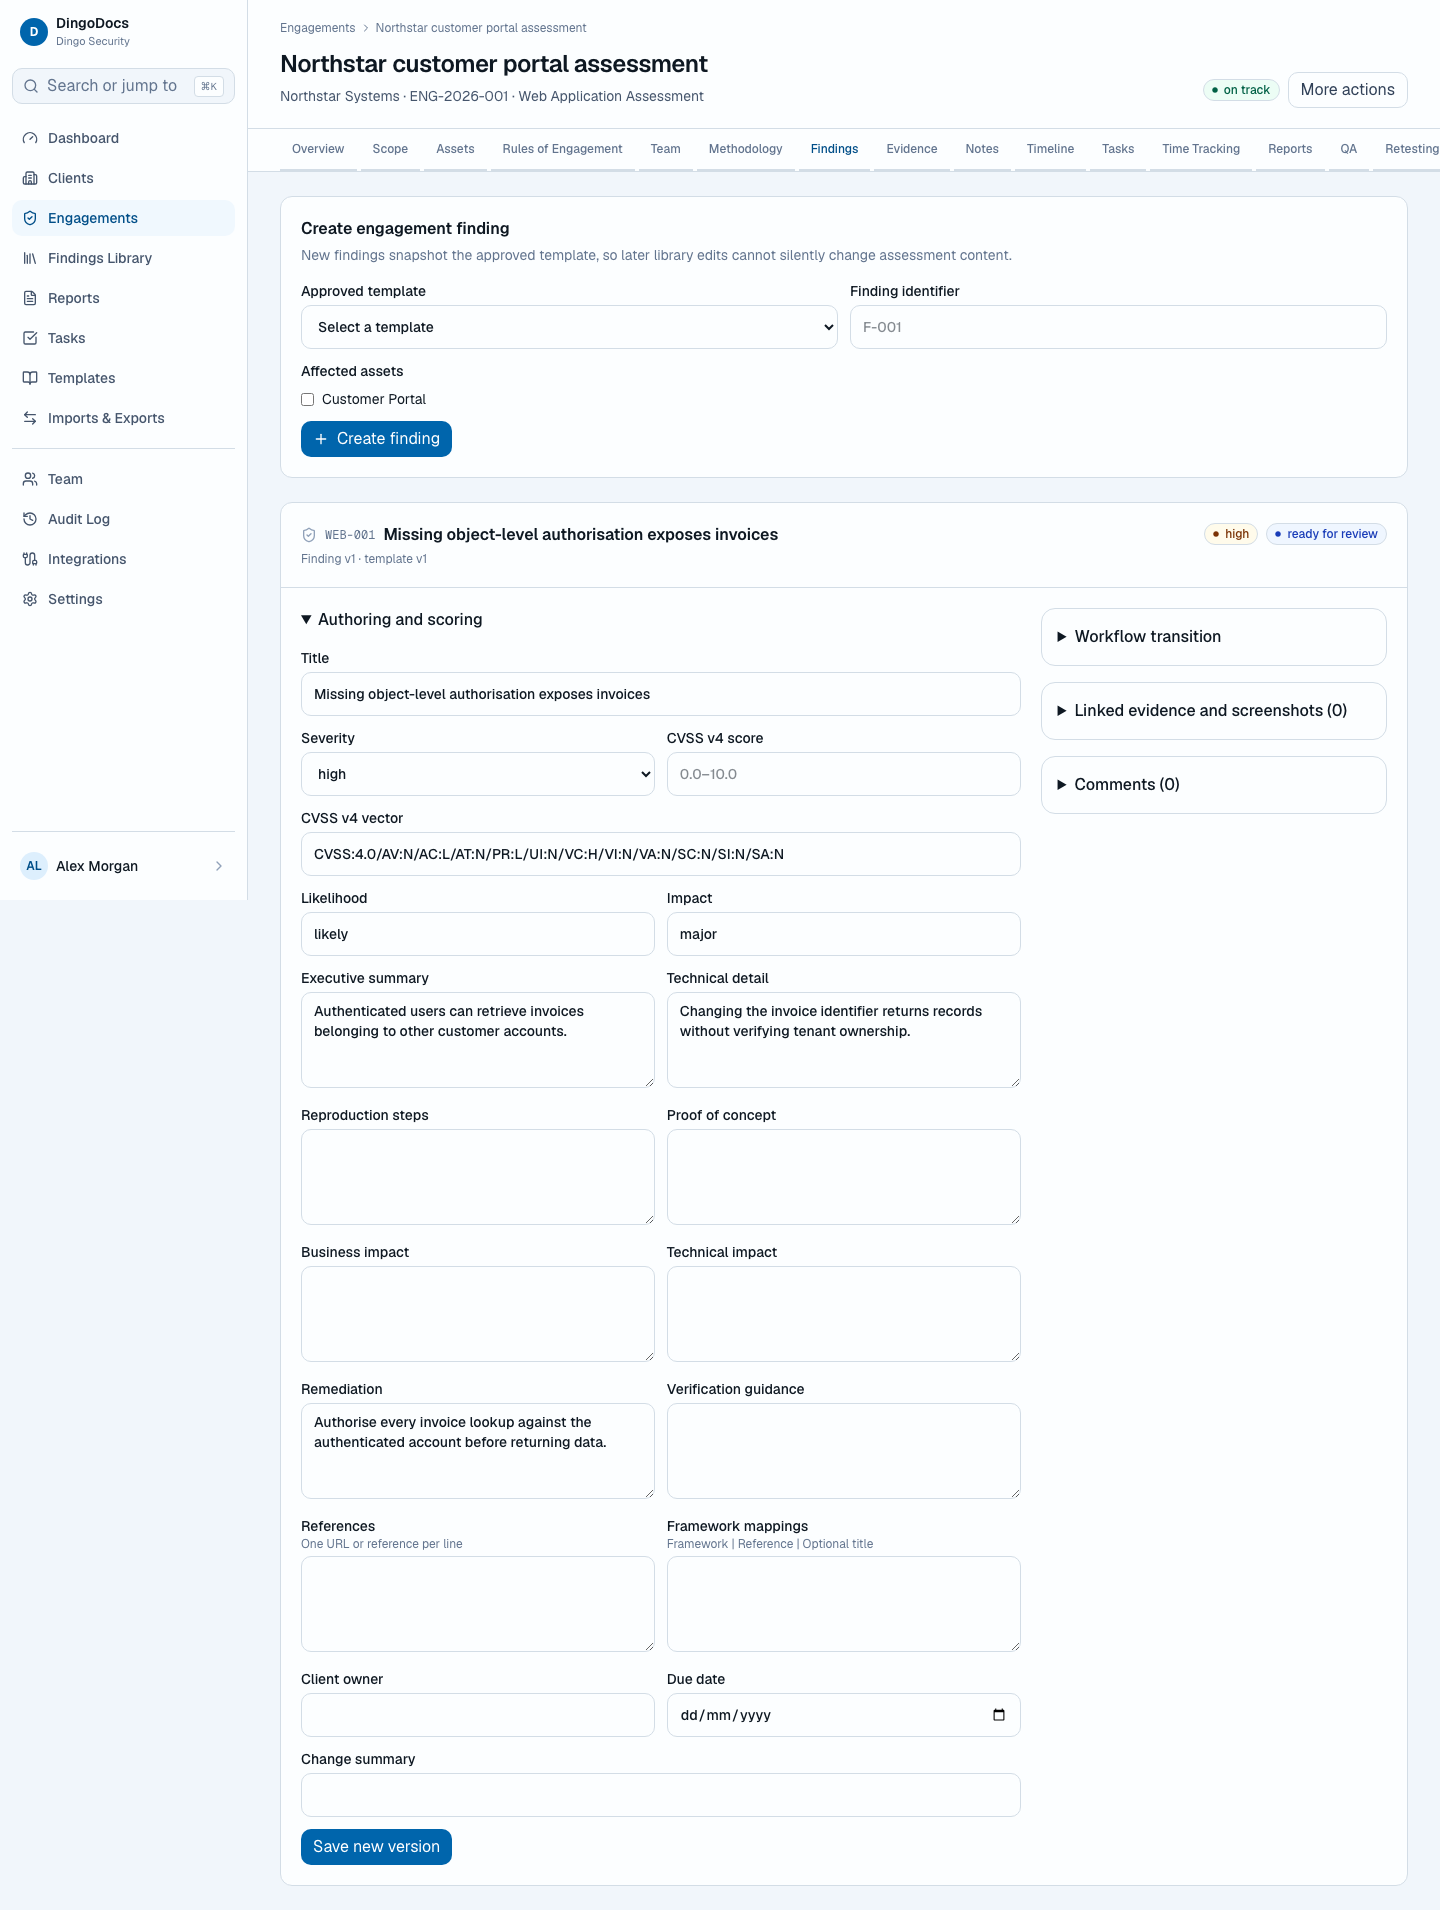
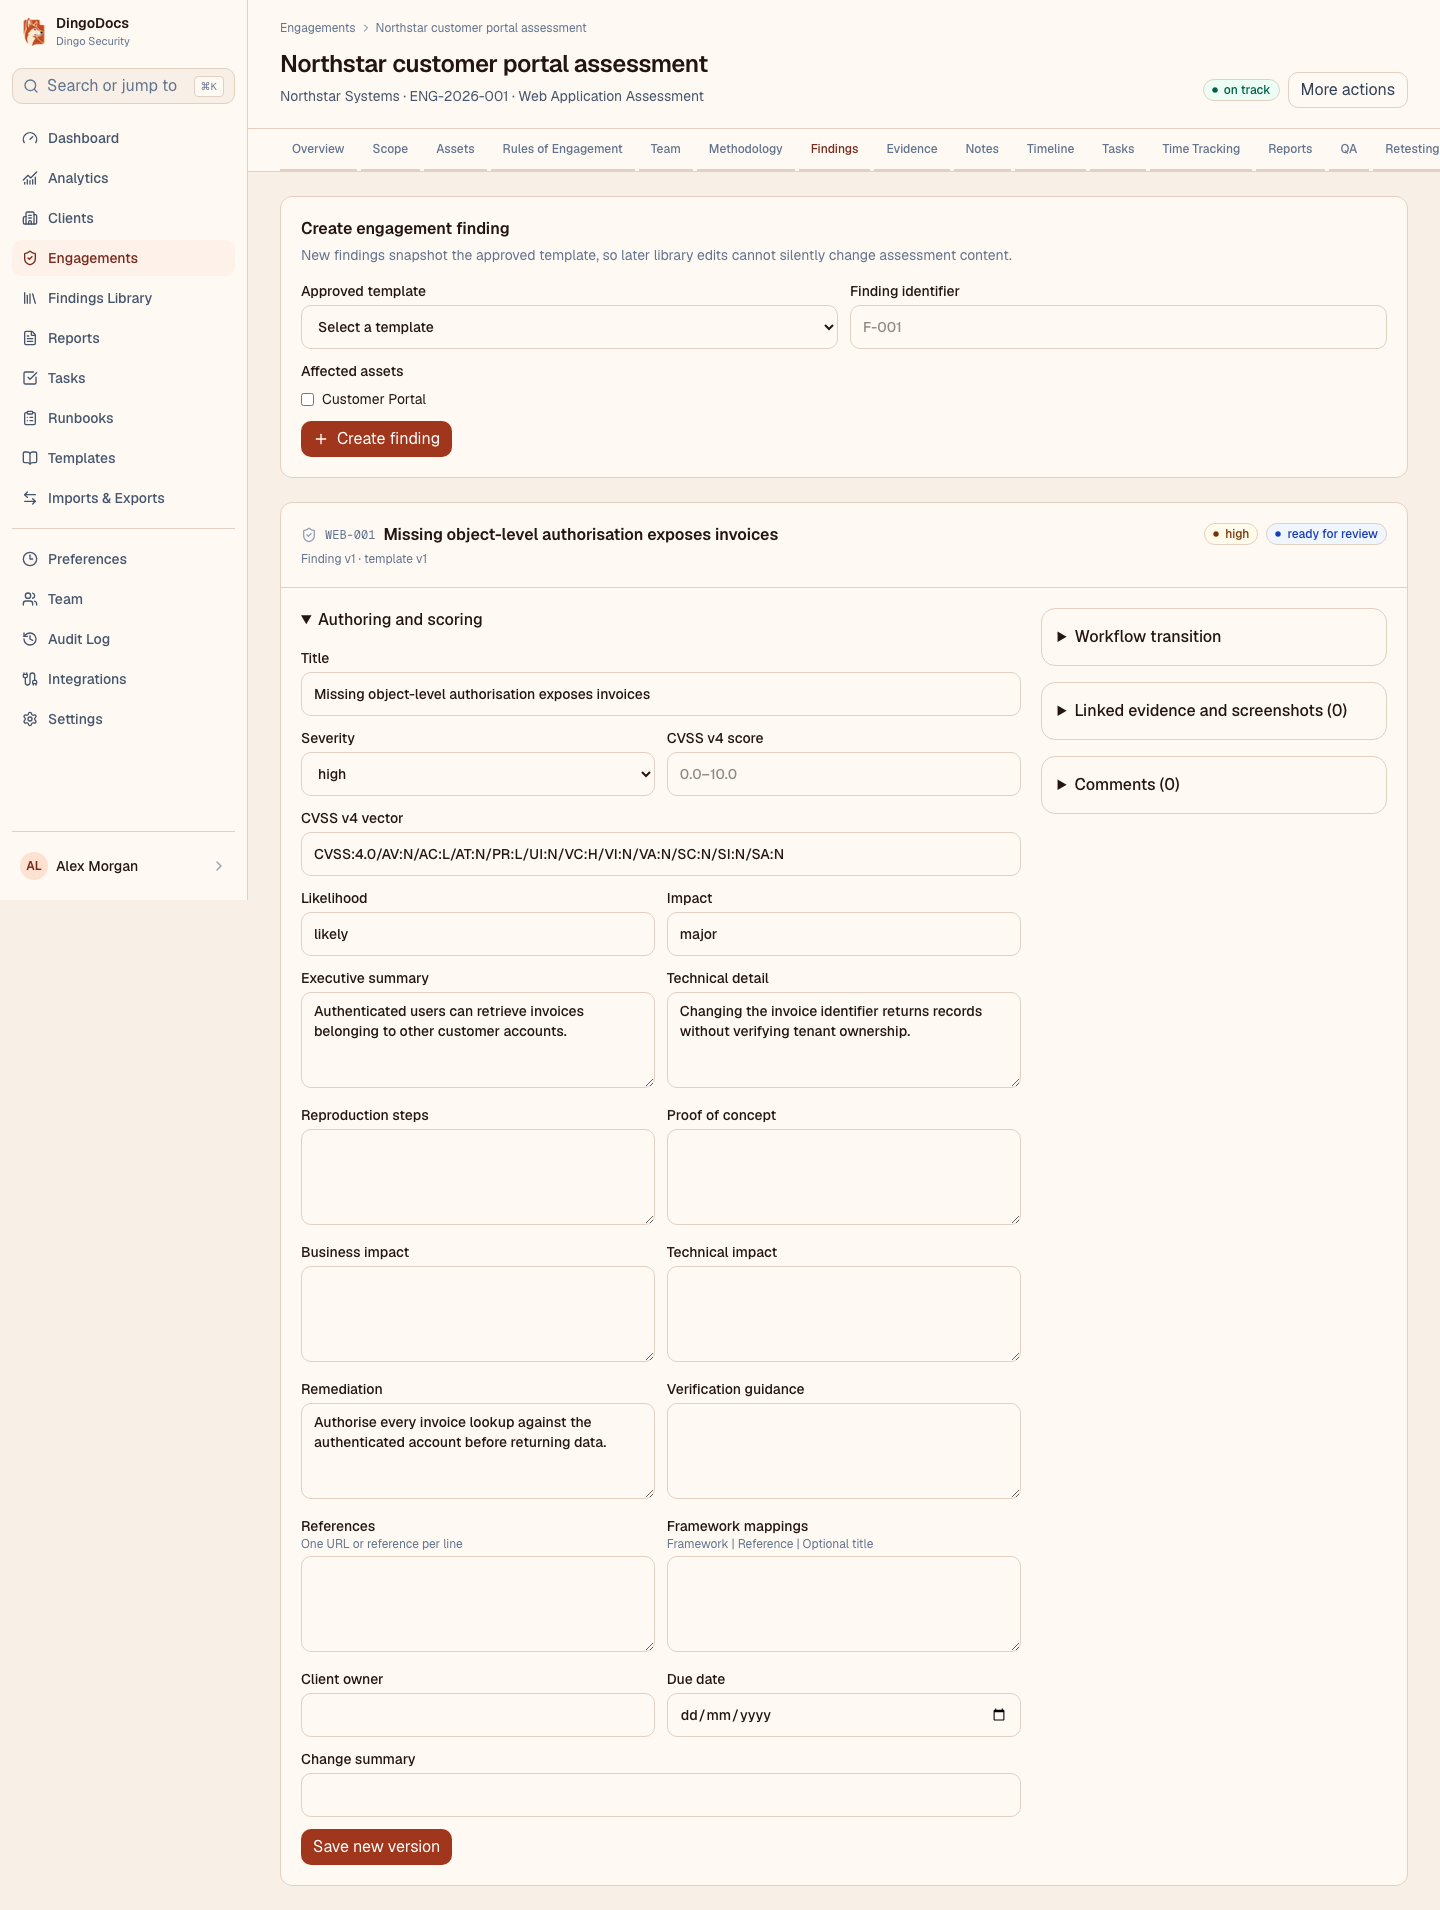
Use DingoDocs mark and refresh product screenshots

diff --git a/src/components/app-shell.tsx b/src/components/app-shell.tsx
@@ -25,6 +25,7 @@ import {
   X,
   type LucideIcon,
 } from "lucide-react";
+import Image from "next/image";
 import Link from "next/link";
 import { usePathname, useRouter } from "next/navigation";
 import { useEffect, useMemo, useRef, useState } from "react";
@@ -114,7 +115,17 @@ export function AppShell({
           >
             <Menu className="size-5" />
           </button>
-          <span className="text-sm font-semibold">DingoDocs</span>
+          <div className="flex items-center gap-2">
+            <Image
+              src="/brand/dingodocs-logo-mark.png"
+              alt=""
+              width={28}
+              height={28}
+              className="size-7 object-contain"
+              priority
+            />
+            <span className="text-sm font-semibold">DingoDocs</span>
+          </div>
           <button
             type="button"
             aria-label="Open command palette"
@@ -164,9 +175,14 @@ function Navigation({
   return (
     <div className="flex h-full flex-col px-3 py-3">
       <div className="flex h-10 items-center gap-2 px-2">
-        <span className="grid size-7 place-items-center rounded-lg bg-primary text-xs font-bold text-white">
-          D
-        </span>
+        <Image
+          src="/brand/dingodocs-logo-mark.png"
+          alt=""
+          width={28}
+          height={28}
+          className="size-7 object-contain"
+          priority
+        />
         <div className="min-w-0">
           <div className="text-sm font-semibold leading-tight">DingoDocs</div>
           <div className="truncate text-[11px] text-slate-500">

diff --git a/src/components/client-portal-shell.tsx b/src/components/client-portal-shell.tsx
@@ -1,6 +1,7 @@
 "use client";
 
 import { LogOut, ShieldCheck } from "lucide-react";
+import Image from "next/image";
 import Link from "next/link";
 import { usePathname, useRouter } from "next/navigation";
 import { signOut } from "@/lib/auth/client";
@@ -22,9 +23,14 @@ export function ClientPortalShell({
       <header className="border-b bg-paper">
         <div className="mx-auto flex min-h-16 max-w-6xl flex-wrap items-center gap-4 px-4 py-3 sm:px-6">
           <Link href="/portal" className="flex items-center gap-3">
-            <span className="grid size-9 place-items-center rounded-lg bg-primary text-sm font-bold text-white">
-              D
-            </span>
+            <Image
+              src="/brand/dingodocs-logo-mark.png"
+              alt=""
+              width={36}
+              height={36}
+              className="size-9 object-contain"
+              priority
+            />
             <span>
               <span className="block text-sm font-semibold">
                 DingoDocs portal

diff --git a/scripts/capture-readme-screenshots.ts b/scripts/capture-readme-screenshots.ts
@@ -7,6 +7,24 @@ const outputDir = resolve("docs/screenshots");
 const engagement = "/engagements/0197f30f-122c-7000-8000-000000000004";
 
 async function capture(page: Page, path: string) {
+  await page.evaluate(() => {
+    for (const image of document.images) image.loading = "eager";
+  });
+  await page.evaluate(async () => {
+    await document.fonts.ready;
+    await Promise.all(
+      Array.from(document.images).map((image) =>
+        image.complete
+          ? image.decode().catch(() => undefined)
+          : new Promise<void>((resolve) => {
+              image.addEventListener("load", () => resolve(), { once: true });
+              image.addEventListener("error", () => resolve(), {
+                once: true,
+              });
+            }),
+      ),
+    );
+  });
   await page.screenshot({ path: resolve(outputDir, path), fullPage: true });
 }
 

diff --git a/src/app/(auth)/sign-in/page.tsx b/src/app/(auth)/sign-in/page.tsx
@@ -1,4 +1,5 @@
 import type { Metadata } from "next";
+import Image from "next/image";
 import Link from "next/link";
 import { Suspense } from "react";
 import { SignInForm } from "./sign-in-form";
@@ -11,9 +12,14 @@ export default function SignInPage() {
   return (
     <div className="w-full max-w-sm">
       <div className="mb-8 lg:hidden">
-        <span className="grid size-9 place-items-center rounded-lg bg-primary font-semibold text-white">
-          D
-        </span>
+        <Image
+          src="/brand/dingodocs-logo-mark.png"
+          alt=""
+          width={36}
+          height={36}
+          className="size-9 object-contain"
+          priority
+        />
       </div>
       <h2 className="text-2xl font-semibold tracking-[-0.02em]">
         Welcome back

diff --git a/src/app/page.tsx b/src/app/page.tsx
@@ -63,9 +63,14 @@ export default function Home() {
       <header className={styles.header}>
         <nav className={styles.nav} aria-label="Primary navigation">
           <Link className={styles.brand} href="/" aria-label="DingoDocs home">
-            <span className={styles.brandMark} aria-hidden="true">
-              D
-            </span>
+            <Image
+              src="/brand/dingodocs-logo-mark.png"
+              alt=""
+              width={32}
+              height={32}
+              className={styles.brandMark}
+              priority
+            />
             <span>DingoDocs</span>
           </Link>
           <div className={styles.navActions}>

diff --git a/src/app/(auth)/layout.tsx b/src/app/(auth)/layout.tsx
@@ -26,9 +26,14 @@ export default function AuthLayout({
           href="/"
           className="flex items-center gap-2 text-sm font-semibold text-[#fff3e5]"
         >
-          <span className="grid size-8 place-items-center rounded-lg bg-[#a94727] text-white shadow-[0_12px_32px_rgba(45,17,8,0.35)]">
-            D
-          </span>
+          <Image
+            src="/brand/dingodocs-logo-mark.png"
+            alt=""
+            width={32}
+            height={32}
+            className="size-8 object-contain"
+            priority
+          />
           DingoDocs
         </Link>
         <div className="my-auto max-w-xl">

diff --git a/src/app/page.module.css b/src/app/page.module.css
@@ -55,15 +55,11 @@
 }
 
 .brandMark {
-  display: grid;
+  display: block;
   width: 2rem;
   height: 2rem;
-  place-items: center;
-  border-radius: 0.65rem;
-  background: var(--earth-accent);
-  color: var(--earth-on-accent);
-  font-size: 0.8rem;
-  box-shadow: 0 0.5rem 1.25rem var(--earth-shadow);
+  flex: 0 0 2rem;
+  object-fit: contain;
 }
 
 .navActions {

diff --git a/src/app/layout.tsx b/src/app/layout.tsx
@@ -12,6 +12,10 @@ export const metadata: Metadata = {
   title: { default: "DingoDocs", template: "%s · DingoDocs" },
   description:
     "Open source penetration testing engagement and reporting platform",
+  icons: {
+    icon: "/brand/dingodocs-logo-mark.png",
+    apple: "/brand/dingodocs-logo-mark.png",
+  },
 };
 
 export default function RootLayout({
